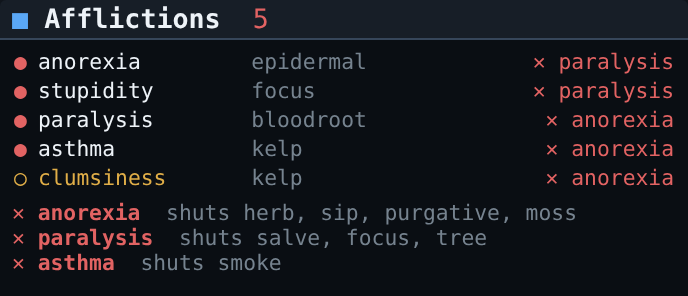
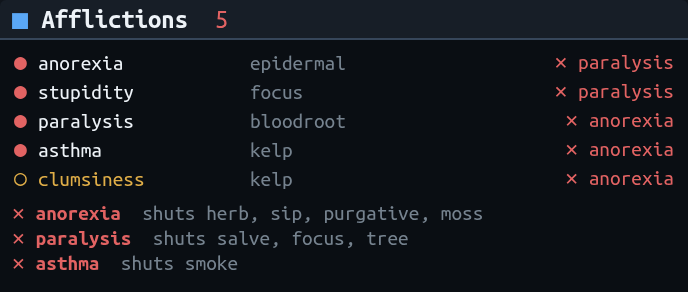
Website: redraw the panel images as the client draws them
The preview drew in DejaVu Sans Mono, because Ubuntu Mono ships inside
Mudlet's own fonts directory rather than the system's; it now loads that
copy, so text measures as it does in the client. It also feeds a Priest's
skill index, so abilities are filed under their skillsets rather than
"Abilities"; sets up bliss, the angel and the mace the way their own lines
and the inventory would; and aligns label text as Qt does, so HUNT and
PAUSE are centred.

The affliction panel, the defence panel (a Priest's real set of 23) and
the combat HUD are redrawn from it at twice the size.

diff --git a/website/defences.html b/website/defences.html
@@ -104,8 +104,8 @@
 <h1>Defence maintenance</h1>
 <p class="lede">Choose your defences once from a clickable grid. Emunah raises whatever is missing on the balance it costs, raises it again when it drops, and never takes a balance that curing needs.</p>
 <figure>
-  <div class="term"><img src="img/defences-panel.png" width="430" height="278" style="--w:430px" alt="Emunah's defence panel: twenty-three defences on keep-up, three to a row, filed under Elixirs, Herbs, Salves, Pipes and Abilities. Twenty-one are green; blindness and selfishness are down, in red."></div>
-  <figcaption>Drawn by Emunah's own panel code: twenty-three defences on keep-up, filed by what raises them, with blindness and selfishness just stripped.</figcaption>
+  <div class="term"><img src="img/defences-panel.png" width="430" height="345" style="--w:430px" alt="Emunah's defence panel: a Priest's twenty-three defences on keep-up, up to three to a row, filed under Elixirs, Herbs, Salves, Pipes, then Devotion, Spirituality, Survival, Tattoos and Vision. Twenty-one are green; rebounding and selfishness are down, in red."></div>
+  <figcaption>Drawn by Emunah's own panel code: a Priest's defences on keep-up, filed by what raises them, with rebounding and selfishness down mid-fight.</figcaption>
 </figure>
 
 <h2 id="modes">Three modes</h2>

diff --git a/website/index.html b/website/index.html
@@ -102,7 +102,7 @@
         <a class="more" href="curing.html">How the curing engine works</a>
       </div>
       <div class="term">
-        <img src="img/afflictions-lock.png" width="438" height="188" style="--w:438px" alt="Emunah's affliction panel during a lock: anorexia, stupidity, asthma, paralysis and clumsiness, each with its cure and the affliction blocking it. Below, anorexia shuts herb, sip, purgative and moss; paralysis shuts salve, focus and tree; asthma shuts smoke.">
+        <img src="img/afflictions-lock.png" width="438" height="186" style="--w:438px" alt="Emunah's affliction panel during a lock: anorexia, stupidity, asthma, paralysis and clumsiness, each with its cure and the affliction blocking it. Below, anorexia shuts herb, sip, purgative and moss; paralysis shuts salve, focus and tree; asthma shuts smoke.">
         <p class="term-caption">Drawn by Emunah's own panel code mid-lock. Three afflictions shut every curing balance between them, and each row shows which one its cure is waiting on.</p>
       </div>
     </article>

diff --git a/website/curing.html b/website/curing.html
@@ -104,7 +104,7 @@
 <h1>Client-side curing</h1>
 <p class="lede">Emunah tracks every affliction you have and cures each one on the balance that can cure it, the moment that balance is back. Achaea's server-side curing stays off, and every rule Emunah follows is one you can read and change.</p>
 <figure>
-  <div class="term"><img src="img/afflictions-lock.png" width="438" height="188" style="--w:438px" alt="Emunah's affliction panel mid-lock: anorexia, stupidity, asthma, paralysis and clumsiness, each with its cure and the affliction blocking it."></div>
+  <div class="term"><img src="img/afflictions-lock.png" width="438" height="186" style="--w:438px" alt="Emunah's affliction panel mid-lock: anorexia, stupidity, asthma, paralysis and clumsiness, each with its cure and the affliction blocking it."></div>
   <figcaption>The affliction panel during a lock, drawn by Emunah's own code. Each row shows the affliction, its cure, and what that cure is waiting on.</figcaption>
 </figure>
 
